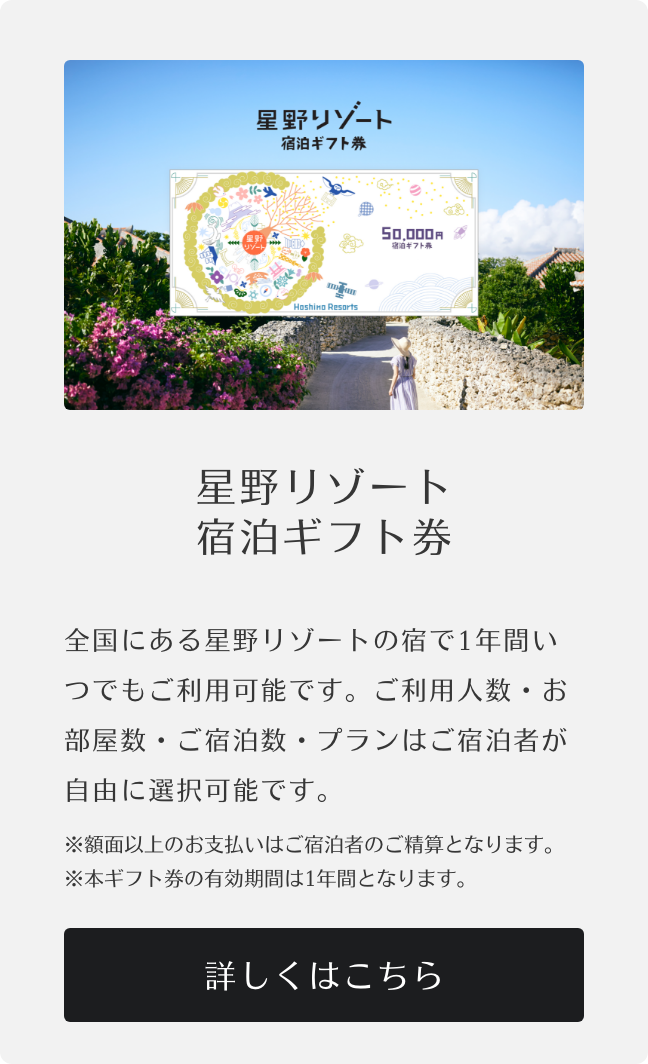
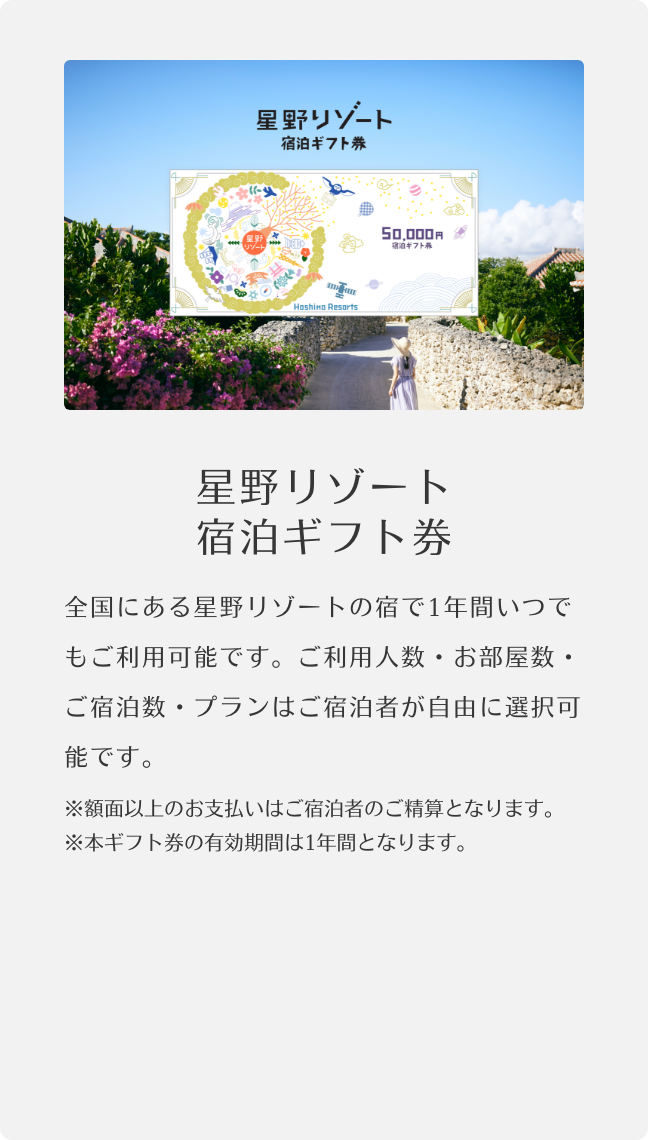
no message

Changed region(s): [[0.0926, 0.093, 0.9259, 0.8374], [0.0926, 0.8684, 0.9259, 0.9615], [0.0926, 0.031, 0.8951, 0.062]]

diff --git a/mini_250219/static/css/style.css b/mini_250219/static/css/style.css
@@ -382,7 +382,7 @@ End-responsible-contents  only-pc
   position: absolute;
   width: 80%;
   margin: auto;
-  bottom: 4%;
+  bottom: 10%;
   left: 0;
   right: 0;
 }
